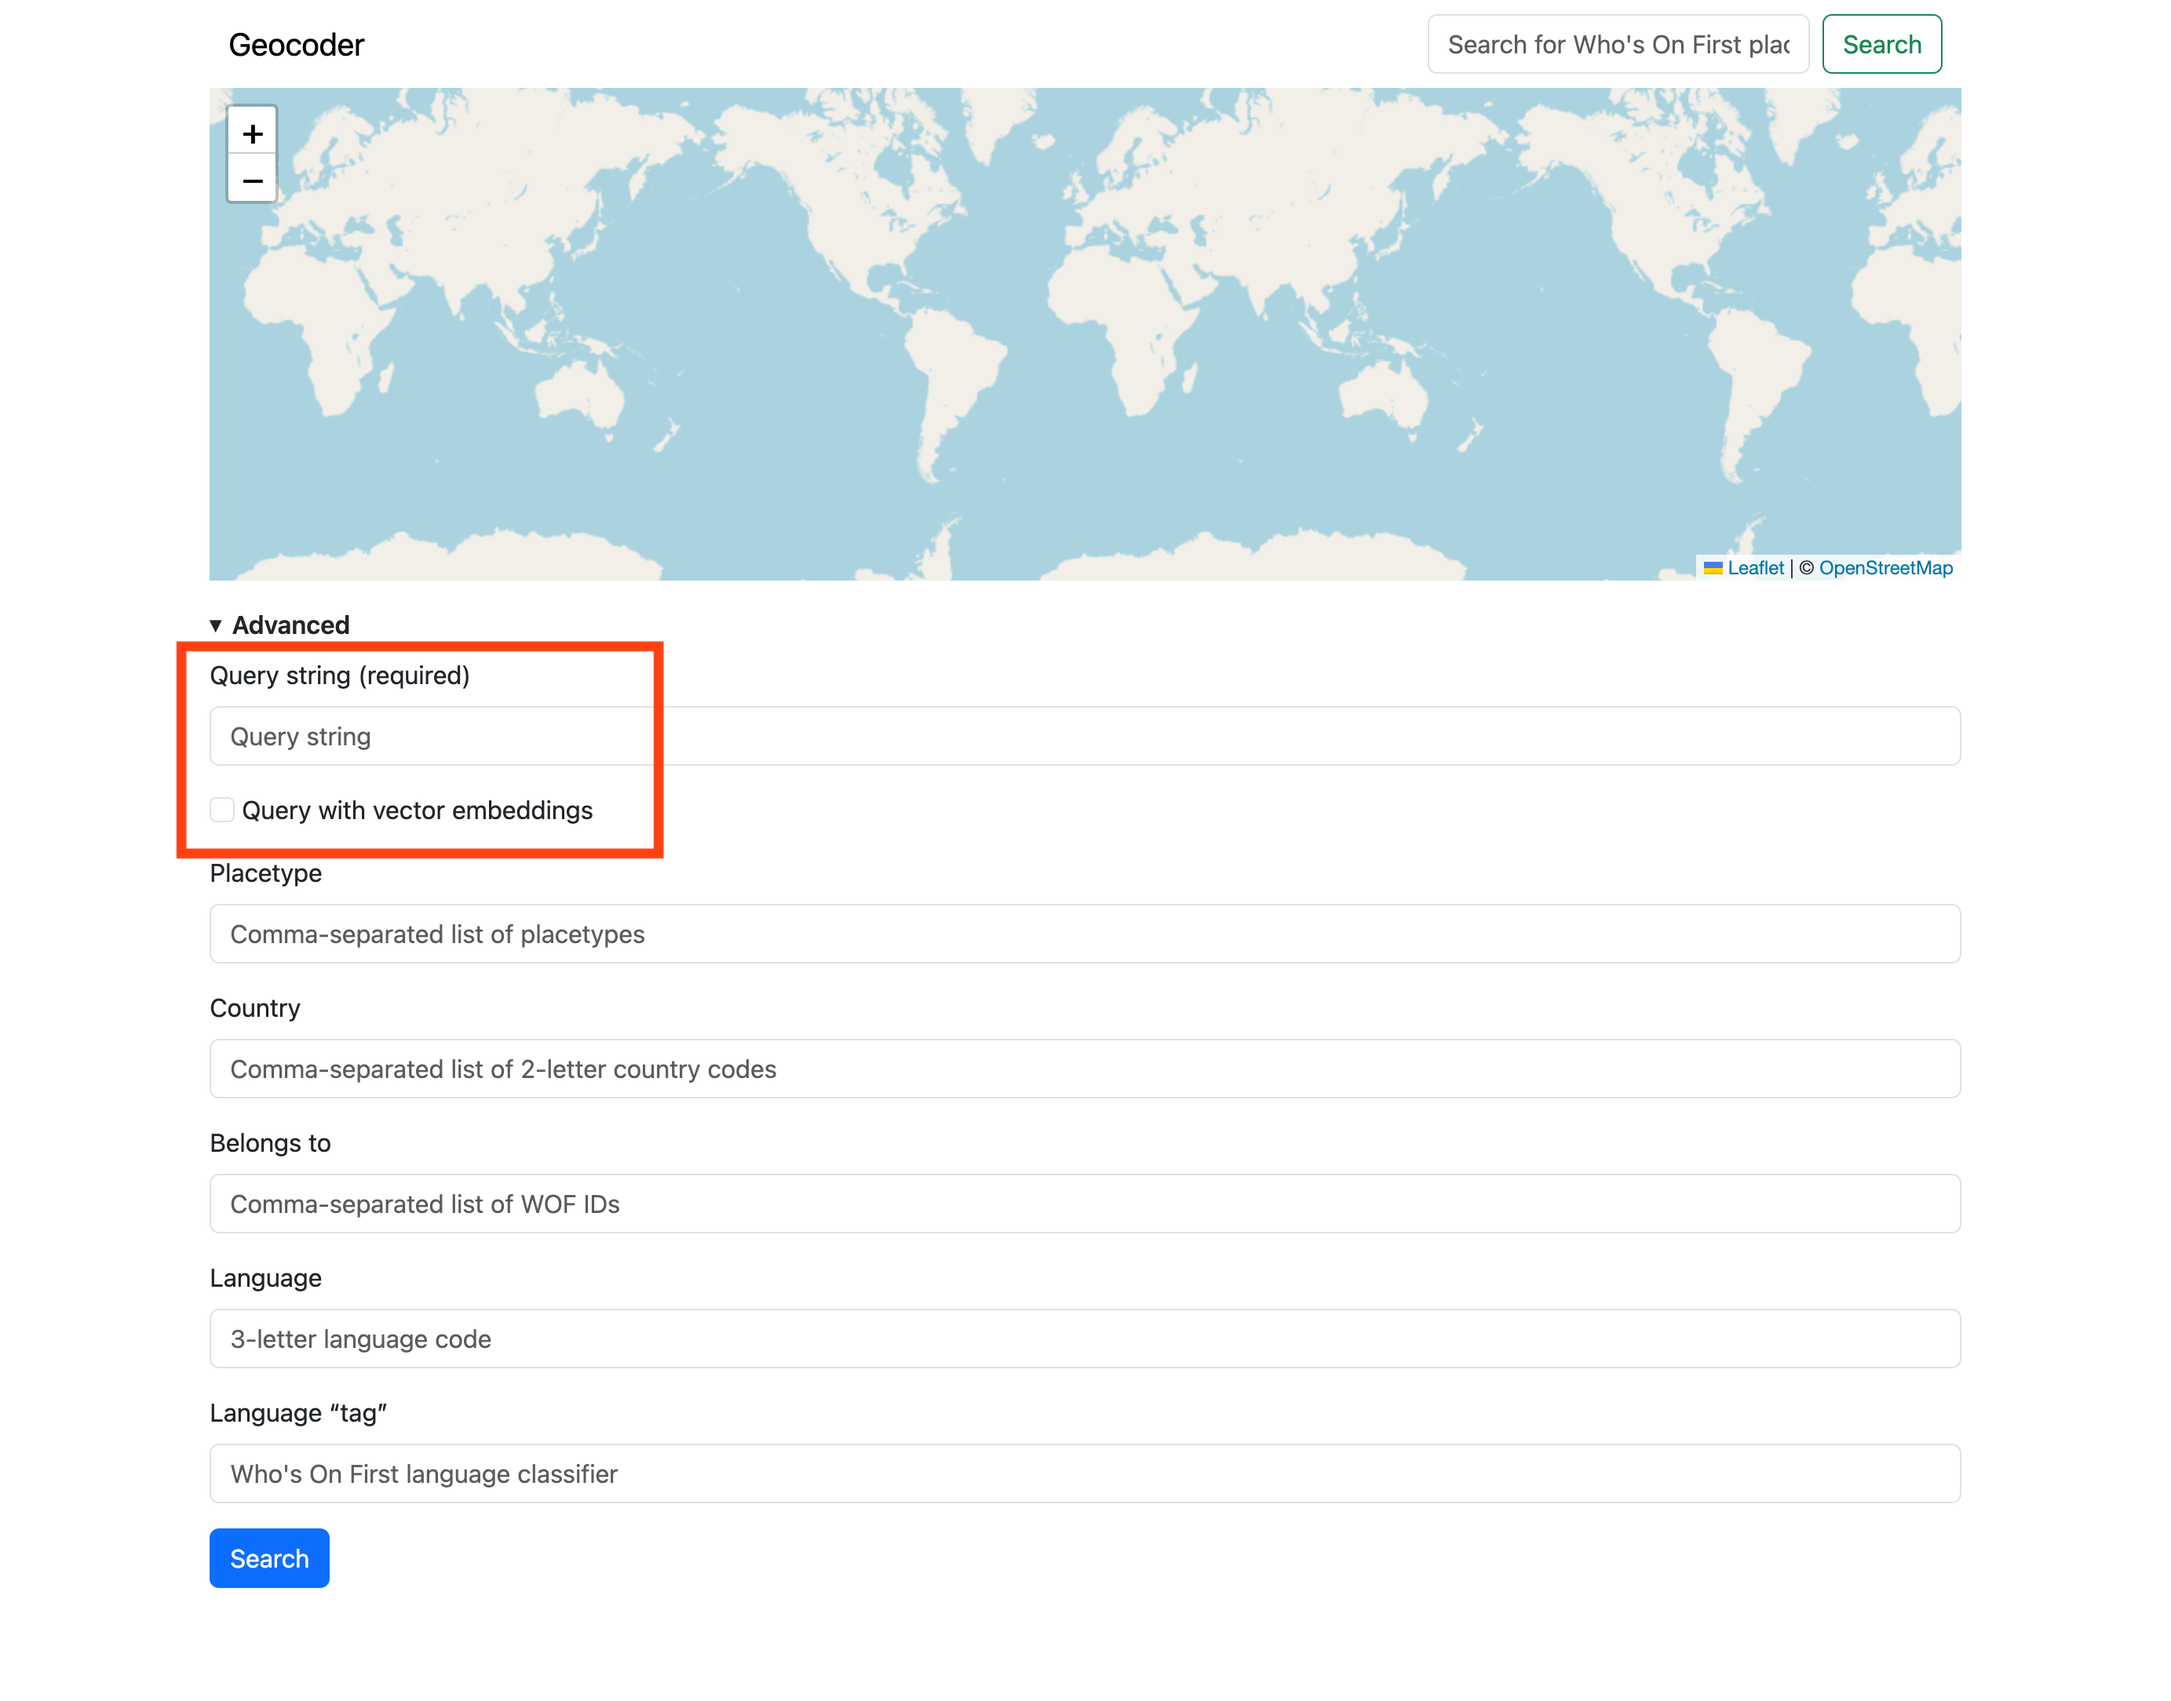
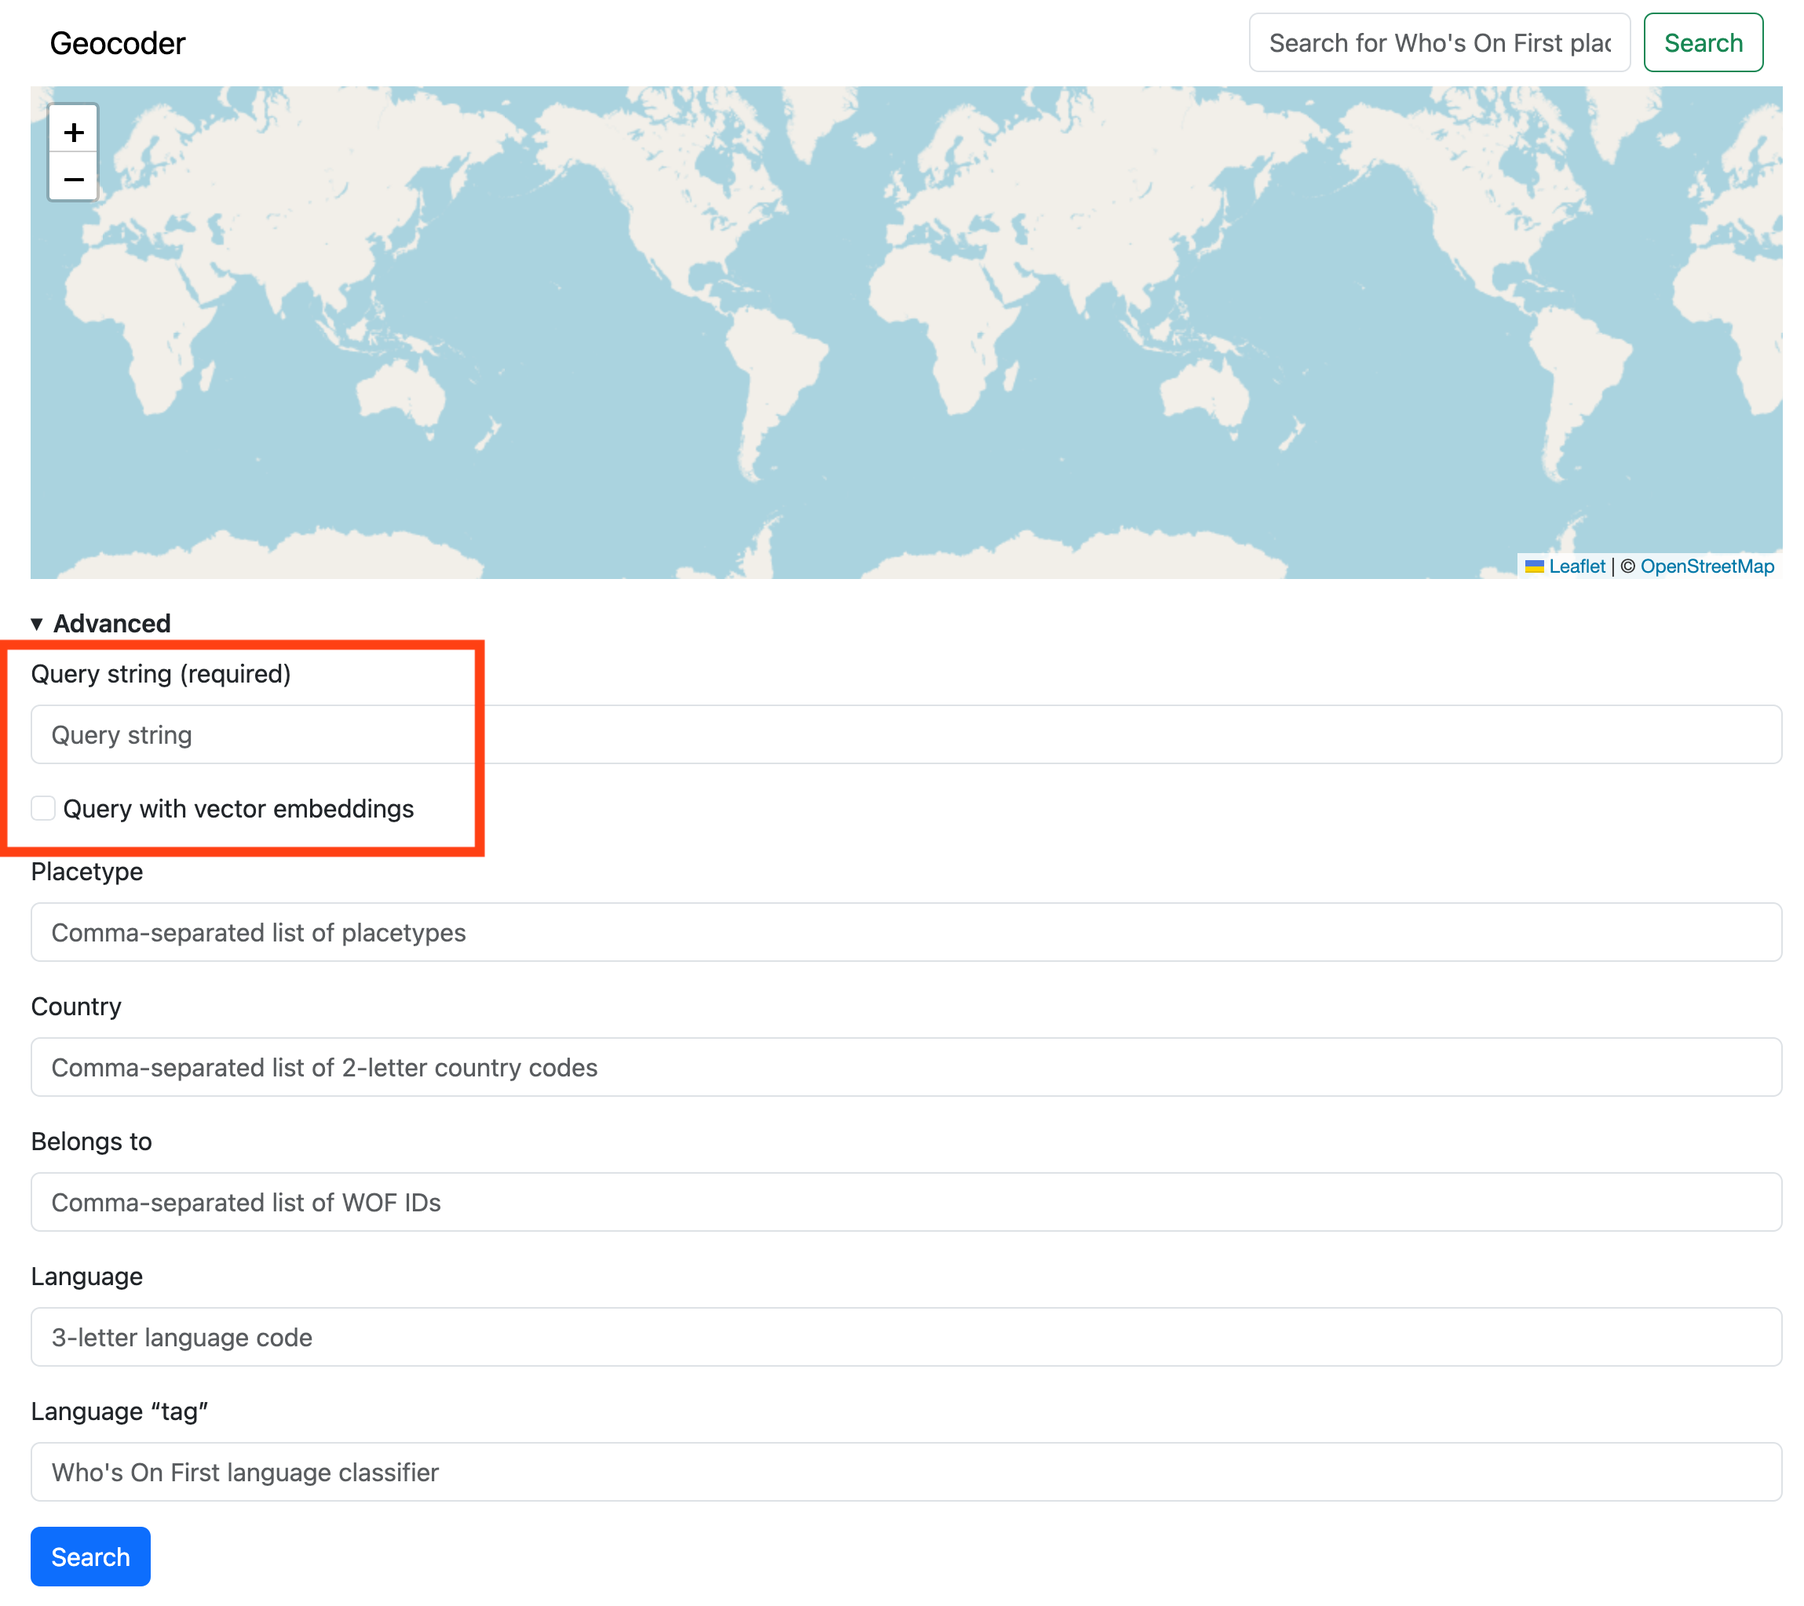
more docs wrangling

Changed region(s): [[0.0, 0.0, 0.9887, 1.0]]

diff --git a/README.md b/README.md
@@ -256,7 +256,7 @@ $> ./bin/wof-coarse-geocoder-query \
 
 2026/08/08 11:25:22 INFO Query results total=7 page=1 pages=1
 
-rank				id			label												placetype	latitude	longitude	is current	inception	cessation
+rank				id			label														placetype	latitude	longitude	is current	inception	cessation
 -17.33661134210852	1947304447	Terminal 3, SFO Terminal Complex, San Francisco International Airport, San Francisco, US	wing; terminal	37.618362	-122.386773	1	2024-11-05	..
 -17.33661134210852	1159157307	Terminal 3, SFO Terminal Complex, San Francisco International Airport, San Francisco, US	wing; terminal	37.618362	-122.386773	0	2017~		2019-07-23
 -17.33661134210852	1477855699	Terminal 3, SFO Terminal Complex, San Francisco International Airport, San Francisco, US	wing; terminal	37.618362	-122.386773	0	2019-07-23	2020-~05
@@ -698,7 +698,7 @@ Querying for "mont royal" returns Montreal:
 
 Querying for "khmer rouge" returns Cambodia and	Hồ Chí Minh city, in Vietnam, which is not incorrect:
 
-![](docs/images/geocoder-demo-vector.png)
+![](docs/images/geocoder-demo-vector-khmer-rouge.png)
 
 ### Virtual File System (VFS) support
 
